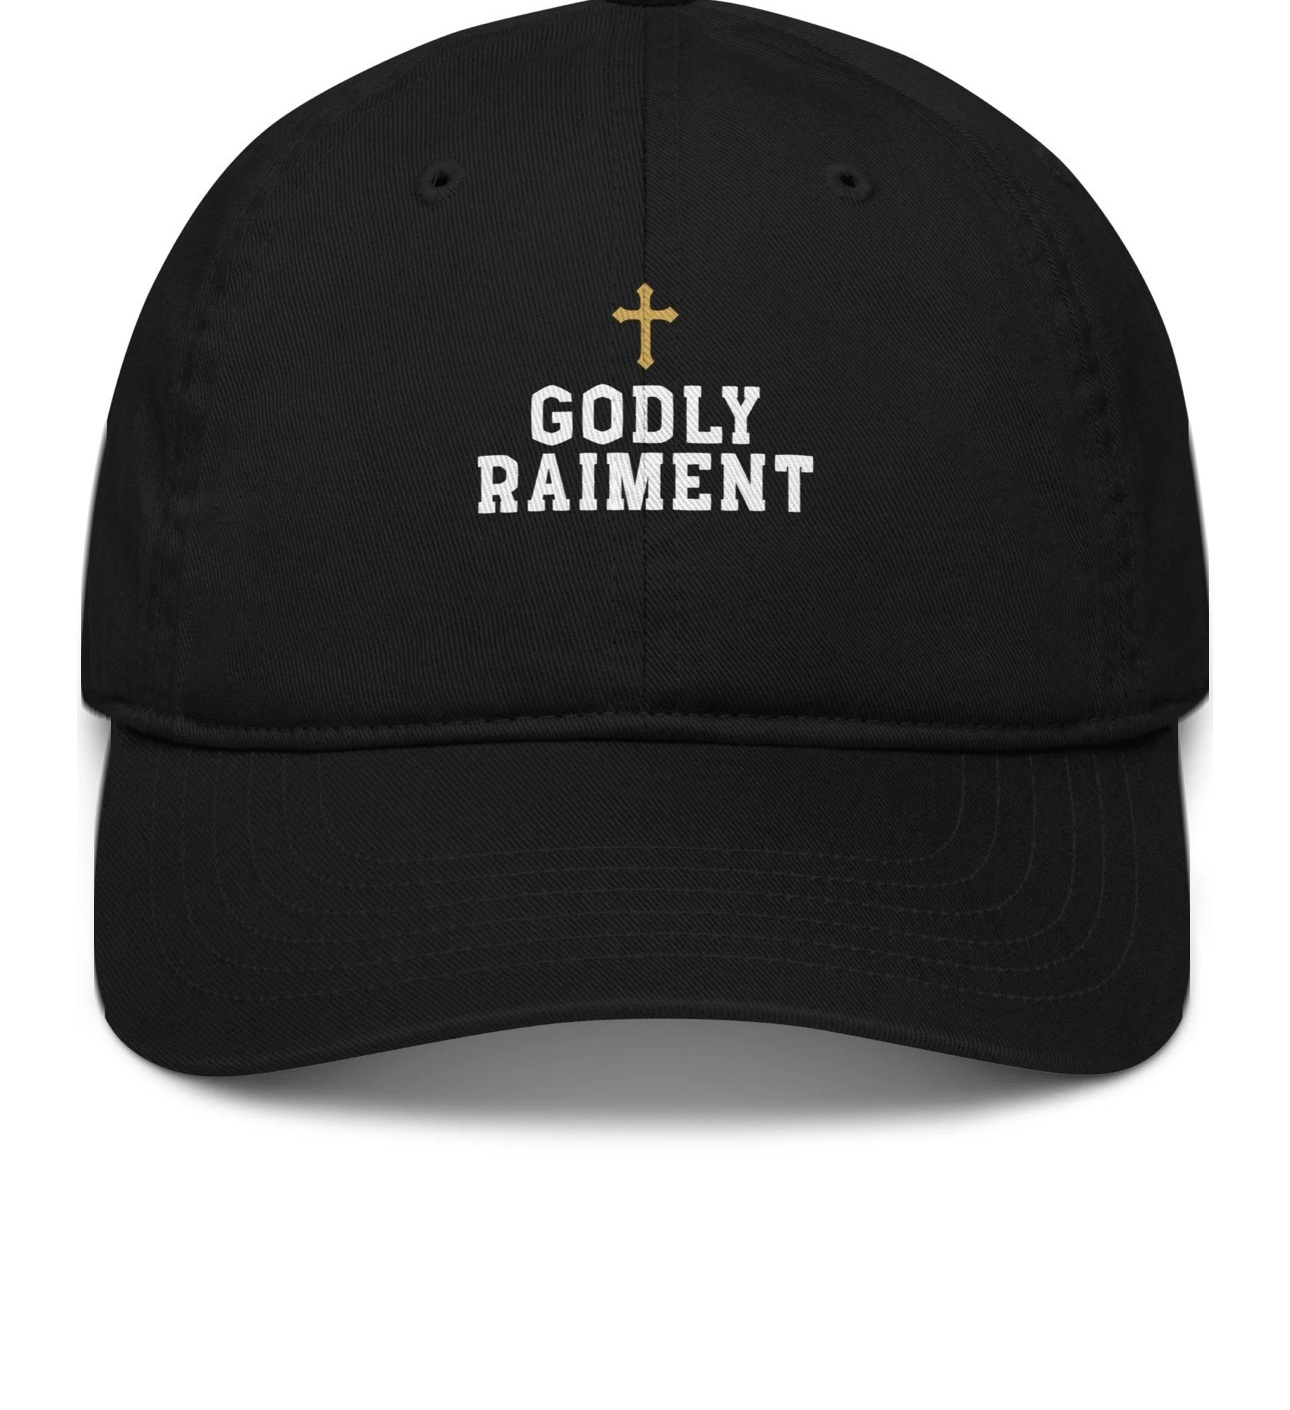
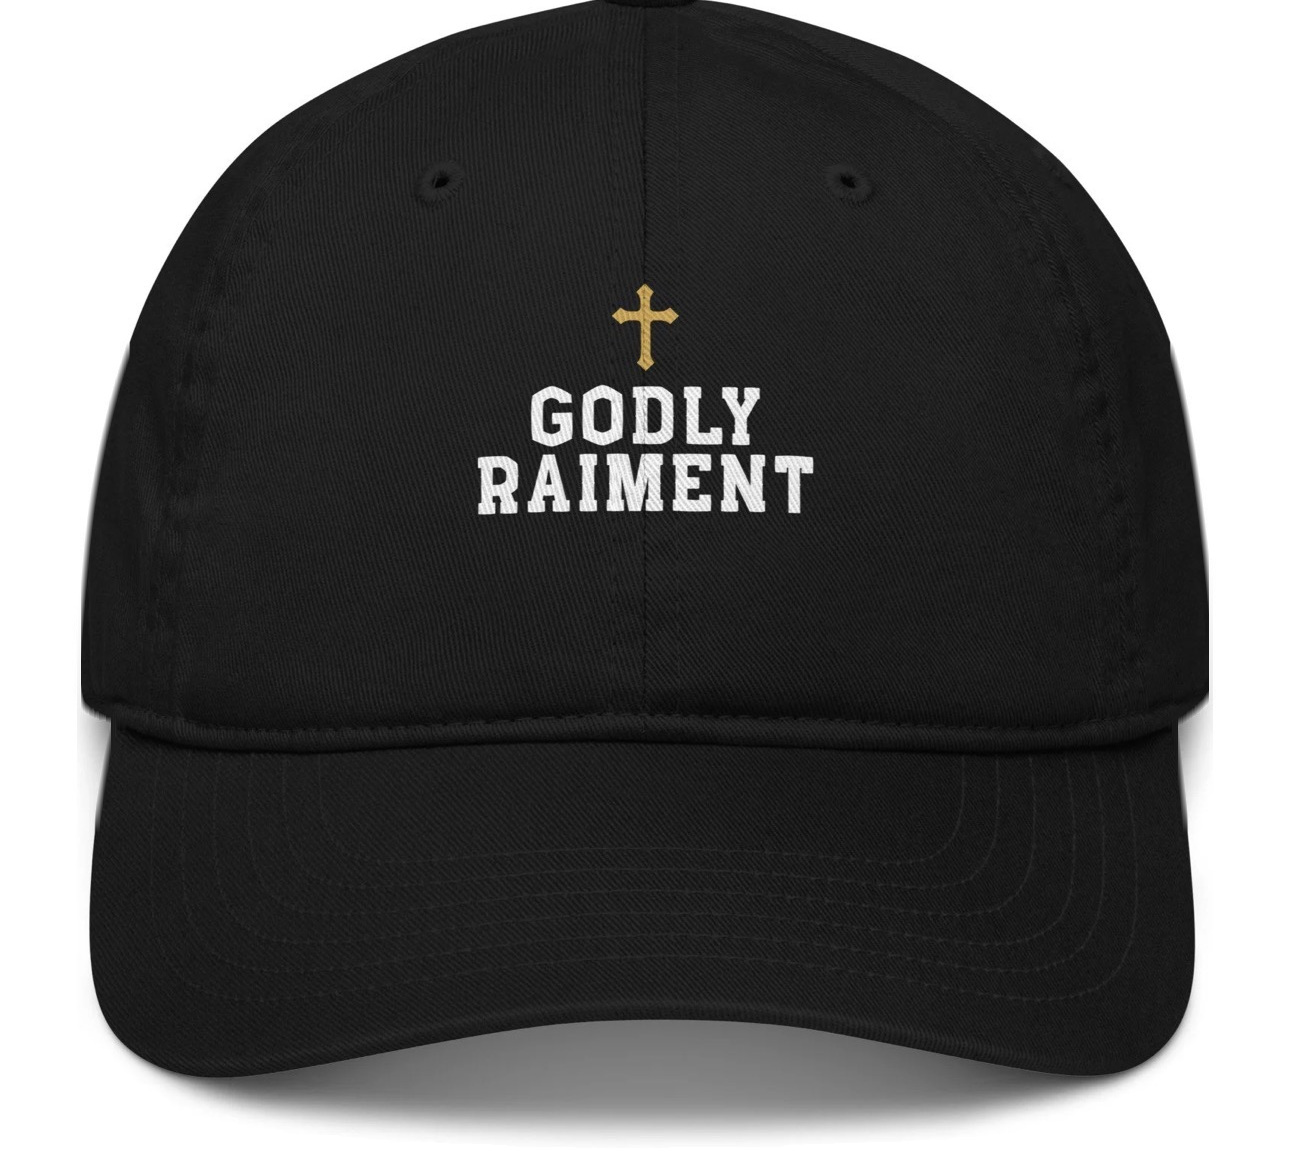
Clean the tee shots too, and clear the page instead of painting over it
The tees carry the same page furniture as the caps plus one the caps did not:
the slide counter sits beside the collar rather than above it, so no vertical
crop can reach it.

So stop repairing the furniture and start clearing it. Everything the store
draws over these shots — chevrons, counter, scrollbar rule — sits clear of the
garment on pure white paper, so blanking the page back to white outside a
per-row box around the product silhouette takes all three out at once, and
without the smear that inpainting a chevron over open page leaves behind. The
box keeps a wide margin so the product's own drop shadow survives.

The page test had to tighten to do it: the white tee sits around 240 and read
as backdrop under the threshold that works for the caps. The crop now walks
out through clean paper on both sides of the product, which also drops the
title set underneath.

Renamed to plate_store_shots.py, since it is no longer only hats.

Claude-Session: https://claude.ai/code/session_01VnEq2ChKPq5zBvguLbqSdZ

diff --git a/scripts/plate_store_shots.py b/scripts/plate_store_shots.py
@@ -1,0 +1,140 @@
+#!/usr/bin/env python3
+"""The store product shots kept on their own backdrop, page furniture removed.
+
+The cut-out pipeline floats a product on black; this one keeps the shot as it
+is photographed — product on the studio white — and only takes out what the
+store page drew over it: the header fade, the slide counter, the carousel
+chevrons, the scrollbar rule, and the product title underneath.
+
+    python3 scripts/plate_store_shots.py
+
+Output: public/images/store/plate-<name>.jpg   (caps)
+        public/images/store/tee-<name>.jpg     (tees)
+"""
+
+from pathlib import Path
+
+import numpy as np
+from PIL import Image, ImageDraw, ImageFilter
+
+from cut_store_hats import BASE, SHOTS, arrow_mask, inpaint_vertical
+
+OUT = Path(__file__).resolve().parent.parent / "public" / "images" / "store"
+
+TEES = {"black": "eefb57a4", "white": "0d195c0a", "sand": "127340a3"}
+
+
+def page_mask(a):
+    """The studio backdrop only.
+
+    It has to be tight: the white tee sits around 240 and would read as page
+    under the threshold that works for the caps.
+    """
+    return (a.min(2) >= 250) & ((a.max(2) - a.min(2)) <= 6)
+
+
+def product_rows(a):
+    """The first and last row of the product itself.
+
+    Anchoring on the longest unbroken run of solid rows rather than the first
+    one steps over the header fade and the slide counter above the product,
+    and the title set underneath it.
+    """
+    h, w, _ = a.shape
+    solid = (~page_mask(a)[:, int(w * 0.18):int(w * 0.82)]).mean(1) > 0.25
+    edges = np.diff(np.concatenate(([0], solid.view(np.int8), [0])))
+    starts, ends = np.nonzero(edges == 1)[0], np.nonzero(edges == -1)[0]
+    if not len(starts):
+        return 0, h
+    i = int(np.argmax(ends - starts))
+    return int(starts[i]), int(ends[i])
+
+
+def trim(a):
+    """Crop to the clean page either side of the product."""
+    h = a.shape[0]
+    top, bot = product_rows(a)
+    clean = page_mask(a).mean(1) > 0.995
+    r = top
+    while r > 0 and clean[r - 1]:
+        r -= 1
+    b = bot
+    while b < h and clean[b]:
+        b += 1
+    return min(r + 4, max(top - 8, 0)), max(b - 4, min(bot + 8, h))
+
+
+def derule(a):
+    """Paint out the hairline rules the page leaves near an edge.
+
+    Painting rather than cropping: the outer margin is not uniform, and
+    trimming to it eats the shoulder of the garment.
+    """
+    out = a.copy()
+    w = a.shape[1]
+    clean = page_mask(a).mean(0) > 0.99
+    margin = int(w * 0.10)
+    edges = np.diff(np.concatenate(([0], (~clean).view(np.int8), [0])))
+    for a0, b0 in zip(np.nonzero(edges == 1)[0], np.nonzero(edges == -1)[0]):
+        if b0 - a0 > 26:
+            continue  # that is the product, not a rule
+        if a0 >= margin and b0 <= w - margin:
+            continue  # and this one is not near an edge
+        src = a0 - 1 if a0 > 0 and clean[a0 - 1] else min(b0, w - 1)
+        out[:, a0:b0] = out[:, src][:, None, :]
+    return out
+
+
+def only_product(a):
+    """Blank the page back to white outside the product.
+
+    The chevrons, the slide counter and the scrollbar all sit clear of the
+    garment on pure white paper, so clearing everything outside a per-row box
+    around the product silhouette removes all three at once — and without the
+    smear that inpainting a chevron over open page leaves behind.
+    """
+    h, w, _ = a.shape
+    solid = ~page_mask(a)
+    # the product is the blob in the middle of the frame, not the furniture
+    flat = np.where(solid, 255, 0).astype(np.uint8)
+    m = Image.fromarray(np.dstack([flat] * 3), "RGB")
+    seed = (w // 2, h // 2)
+    if m.getpixel(seed) == (255, 255, 255):
+        ImageDraw.floodfill(m, seed, (0, 255, 0))
+        r = np.array(m)
+        solid = (r[..., 0] == 0) & (r[..., 1] == 255) & (r[..., 2] == 0)
+
+    out = a.copy()
+    margin = 45  # wide enough to keep the product's own drop shadow
+    for y in range(h):
+        cols = np.nonzero(solid[y])[0]
+        if not len(cols):
+            out[y] = 255
+            continue
+        out[y, :max(int(cols[0]) - margin, 0)] = 255
+        out[y, min(int(cols[-1]) + margin + 1, w):] = 255
+    return out
+
+
+def plate(name, stem, prefix):
+    a = np.array(Image.open(BASE + stem + "-image.jpg").convert("RGB")).astype(int)
+    top, bot = trim(a)
+    a = a[top:bot]
+
+    mask = arrow_mask(a)
+    mask = np.array(Image.fromarray((mask * 255).astype(np.uint8))
+                    .filter(ImageFilter.MaxFilter(5))) > 127
+    out = only_product(derule(inpaint_vertical(a.astype(np.uint8), mask)))
+
+    im = Image.fromarray(out)
+    OUT.mkdir(parents=True, exist_ok=True)
+    path = OUT / f"{prefix}-{name}.jpg"
+    im.save(path, quality=94, subsampling=0)
+    print(f"{prefix}-{name:9s} {im.size}  arrow px {int(mask.sum()):6d}")
+
+
+if __name__ == "__main__":
+    for n, s in SHOTS.items():
+        plate(n, s, "plate")
+    for n, s in TEES.items():
+        plate(n, s, "tee")
